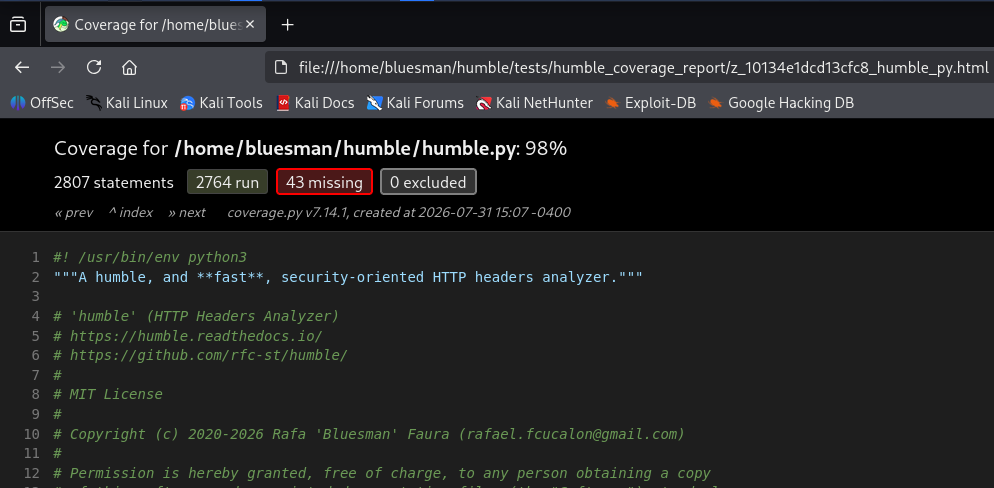
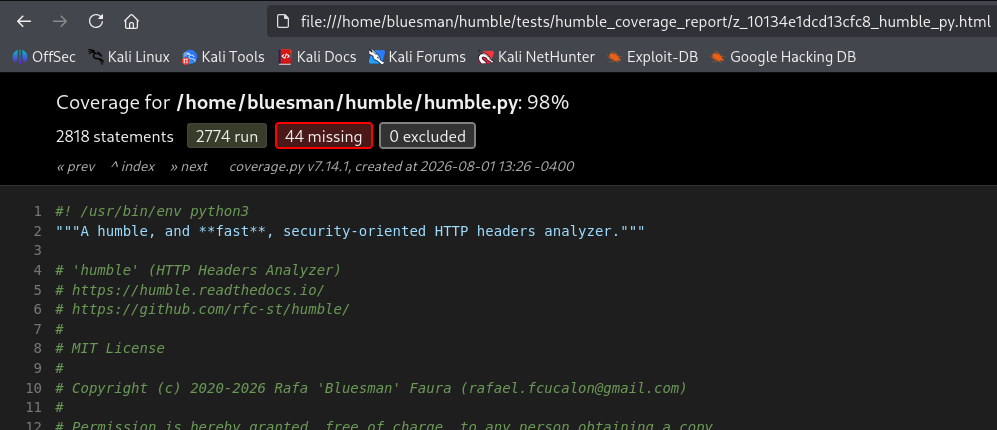
Minor: Code optimizations
Lazy-loading modules and packages

diff --git a/humble.py b/humble.py
@@ -31,7 +31,6 @@
 import binascii
 import operator
 import re
-import ssl
 import sys
 import xml.etree.ElementTree as ET  # nosemgrep: use-defused-xml
 from argparse import ArgumentParser, RawDescriptionHelpFormatter
@@ -55,12 +54,8 @@ from typing import NamedTuple, NoReturn
 from urllib.parse import urlparse
 
 # Third-Party imports
-import requests
 from colorama import Fore, Style, init
 from defusedcsv import csv as defusedcsv_logic
-from requests.adapters import HTTPAdapter
-from requests.structures import CaseInsensitiveDict
-from urllib3 import disable_warnings
 
 # Core globals, metadata and versioning
 BANNER = """  _                     _     _
@@ -239,36 +234,6 @@ RE_PATTERN = (
 )
 
 
-class SSLContextAdapter(requests.adapters.HTTPAdapter):
-    """Custom SSL adapter.
-
-    Disables SSL validation for unrestricted URL analysis.
-
-    ??? note
-        The following checks are disabled to allow the analysis of URLs
-        in environments with self-signed certificates, outdated software,
-        or development configurations:
-
-        - Certificate Verification
-        - Hostname Verification
-        - Certificate Requirement
-    """
-
-    def init_poolmanager(self, *args, **kwargs):
-        """Initialize the pool manager.
-
-        With an unverified SSL context and restricted ciphers.
-
-        """
-        # nosemgrep: unverified-ssl-context
-        context = ssl._create_unverified_context()
-        context.check_hostname = False
-        context.verify_mode = ssl.CERT_NONE
-        context.set_ciphers(FORCED_CIPHERS) # nosemgrep: no-set-ciphers
-        kwargs["ssl_context"] = context
-        return super().init_poolmanager(*args, **kwargs)
-
-
 def check_python_version():
     """Verify that the host's Python version meets the minimum requirements.
 
@@ -313,19 +278,32 @@ def check_proxy_url(proxy_host, proxy_port, timeout, failed_proxy):
         failed_proxy.set()
 
 
+def get_github_version():
+    """Fetch the date of the latest `humble` version from GitHub.
+
+    ??? tip
+        `requests` is lazy-loaded to avoid unnecessary overhead.
+    """
+    import requests
+    github_response = requests.get(URL_LIST[3], timeout=REQ_TIMEOUT)
+    github_response.raise_for_status()
+    github_repo = github_response.text
+    if (github_match := re.search(RE_PATTERN[4], github_repo)) is None:
+        print_error_detail("[update_error]")
+    return date.fromisoformat(github_match.group())
+
+
 def check_updates(local_version):
     """Check for updated versions of `humble` on GitHub.
 
     After that exit; related to `-v` option.
+
+    ??? tip
+        `requests` is lazy-loaded to avoid unnecessary overhead.
     """
+    import requests
     try:
-        github_response = requests.get(URL_LIST[3], timeout=REQ_TIMEOUT)
-        github_response.raise_for_status()
-        github_repo = github_response.text
-        if (github_match := re.search(RE_PATTERN[4], github_repo)) is None:
-            print_error_detail("[update_error]")
-        github_date = github_match.group()
-        github_version = date.fromisoformat(github_date)
+        github_version = get_github_version()
         days_diff = (github_version - local_version).days
         check_updates_diff(days_diff, github_version, local_version)
     except (requests.exceptions.RequestException, ValueError):
@@ -4258,27 +4236,69 @@ def process_server_error(http_status_code, l10n_id):
     sys.exit(1)
 
 
-def make_http_request(custom_headers, proxy):  # sourcery skip: extract-method
-    """Make the request to the provided URL, disabling certain checks.
+def build_http_session():
+    """Build the session for the analysis, with a custom SSL adapter.
 
     ??? note
-        I have disabled the following checks to allow the analysis of URLs in
-        certain cases (e.g., development environments, hosts with outdated
-        servers/software or self-signed certificates) and because they exceed
-        the scope of this tool:
+        The following checks are disabled to allow the analysis of URLs
+        in environments with self-signed certificates, outdated software,
+        or development configurations:
 
         - Certificate Verification
         - Hostname Verification
         - Certificate Requirement
 
-        If `-df` option is provided (`args.redirects`) the exact URL will
-        be analyzed; otherwise the last redirected URL will be analyzed.
+    ??? tip
+        `ssl`, `requests` and `HTTPAdapter` are lazy-loaded to avoid unnecessary
+        overhead.
     """
+    import ssl
+
+    import requests
+    from requests.adapters import HTTPAdapter
+
+    class SSLContextAdapter(HTTPAdapter):
+        """Custom SSL adapter.
+
+        Disables SSL validation for unrestricted URL analysis.
+        """
+
+        def init_poolmanager(self, *args, **kwargs):
+            """Initialize the pool manager.
+
+            With an unverified SSL context and restricted ciphers.
+
+            """
+            # nosemgrep: unverified-ssl-context
+            context = ssl._create_unverified_context()
+            context.check_hostname = False
+            context.verify_mode = ssl.CERT_NONE
+            context.set_ciphers(FORCED_CIPHERS) # nosemgrep: no-set-ciphers
+            kwargs["ssl_context"] = context
+            return super().init_poolmanager(*args, **kwargs)
+
+    session = requests.Session()
+    session.mount("https://", SSLContextAdapter())
+    session.mount("http://", HTTPAdapter())
+    return session
+
+
+def make_http_request(custom_headers, proxy):  # sourcery skip: extract-method
+    """Make the request to the provided URL, disabling certain checks.
+
+    ??? note
+        If `-df` option is provided (`args.redirects`) the exact URL will be
+        analyzed; otherwise the last redirected URL will be analyzed.
+
+    ??? tip
+        `requests` and `urllib3` are lazy-loaded to avoid unnecessary overhead.
+    """
+    import requests
+    from urllib3 import disable_warnings
+
+    disable_warnings()
     try:
-        session = requests.Session()
-        session.mount("https://", SSLContextAdapter())
-        session.mount("http://", HTTPAdapter())
-        r = session.get(
+        r = build_http_session().get(
             URL,
             allow_redirects=not args.redirects,
             verify=False,
@@ -4299,7 +4319,23 @@ def make_http_request(custom_headers, proxy):  # sourcery skip: extract-method
 
 
 def process_requests_exception(exception):
-    """Print error messages for request timeout and unhandled exceptions."""
+    """Print error messages for request timeout and unhandled exceptions.
+
+    ??? tip
+        `requests` is lazy-loaded to avoid unnecessary overhead.
+    """
+    import requests
+    exception_d = {
+        requests.exceptions.ChunkedEncodingError: "[e_chunk]",
+        requests.exceptions.ConnectionError: "[e_connection]",
+        requests.exceptions.ContentDecodingError: "[e_decoding]",
+        requests.exceptions.InvalidSchema: "[e_ischema]",
+        requests.exceptions.InvalidURL: "[e_url]",
+        requests.exceptions.MissingSchema: "[e_mschema]",
+        requests.exceptions.SSLError: None,
+        requests.exceptions.Timeout: "[e_timeout]",
+        requests.exceptions.TooManyRedirects: "[e_redirect]",
+    }
     if isinstance(exception, requests.exceptions.Timeout):
         delete_lines()
         delete_lines()
@@ -4314,7 +4350,13 @@ def process_requests_exception(exception):
 
 
 def process_http_error(r):
-    """Print error messages based on HTTP response code during analysis."""
+    """Print error messages based on HTTP response code during analysis.
+
+    ??? tip
+        `requests` is lazy-loaded to avoid unnecessary overhead.
+    """
+    import requests
+
     try:
         r.raise_for_status()
     except requests.exceptions.HTTPError:
@@ -4403,6 +4445,18 @@ def process_http_request(status_code, reliable, body, proxy, custom_headers):
     return process_http_response(r, exception, status_code, reliable, body)
 
 
+def strip_response_headers(r):
+    """Return response headers cleaned of extraneous whitespace.
+
+    ??? tip
+        `CaseInsensitiveDict` is lazy-loaded to avoid unnecessary overhead.
+    """
+    from requests.structures import CaseInsensitiveDict
+    return CaseInsensitiveDict({
+        k: re.sub(RE_PATTERN[20], " ", v).strip()
+        for k, v in r.headers.items()})
+
+
 def process_http_response(r, exception, status_code, reliable, body):
     """Process an HTTP response and its exceptions.
 
@@ -4419,17 +4473,13 @@ def process_http_response(r, exception, status_code, reliable, body):
     """
     if exception:
         process_requests_exception(exception)
-        return {}, status_code, reliable, body, False, None
-    if r is None:
+    if exception or r is None:
         return {}, status_code, reliable, body, False, None
     process_http_error(r)
-    status_code = r.status_code
-    headers = CaseInsensitiveDict({
-        k: re.sub(RE_PATTERN[20], " ", v).strip()
-        for k, v in r.headers.items()})
-    body = r.text
+    headers = strip_response_headers(r)
     is_html = headers.get("content-type", "").lower().startswith("text/html")
-    return headers, status_code, reliable, body, is_html, r.url, len(r.history)
+    return (headers, r.status_code, reliable, r.text, is_html, r.url,
+            len(r.history))
 
 
 class HumbleHelpFormatter(RawDescriptionHelpFormatter):
@@ -4636,19 +4686,6 @@ if not args.URL_A and not args.cicd:
         detail = "[compliance_output]"
     print()
     print_detail(detail)
-
-exception_d = {
-    requests.exceptions.ChunkedEncodingError: "[e_chunk]",
-    requests.exceptions.ConnectionError: "[e_connection]",
-    requests.exceptions.ContentDecodingError: "[e_decoding]",
-    requests.exceptions.InvalidSchema: "[e_ischema]",
-    requests.exceptions.InvalidURL: "[e_url]",
-    requests.exceptions.MissingSchema: "[e_mschema]",
-    requests.exceptions.SSLError: None,
-    requests.exceptions.Timeout: "[e_timeout]",
-    requests.exceptions.TooManyRedirects: "[e_redirect]",
-}
-disable_warnings() # via urllib3 import
 
 final_url, redirect_count = None, 0
 if "-if" not in sys.argv:

diff --git a/README.md b/README.md
@@ -577,6 +577,8 @@ And is regularly audited manually using the following tools (for each of them, I
 - <a href="https://github.com/koalaman/shellcheck" target="_blank">ShellCheck</a>: `shellcheck internal/releases.sh internal/security.sh`
 - <a href="https://github.com/jendrikseipp/vulture" target="_blank">vulture</a>: `vulture --min-confidence 60 humble.py`
 
+Example of one of these audits:
+
 <img src="https://github.com/rfc-st/humble/blob/master/screenshots/humble_secqa.PNG" alt="Security and QA checks">
 
 ## Checks: enabled headers
